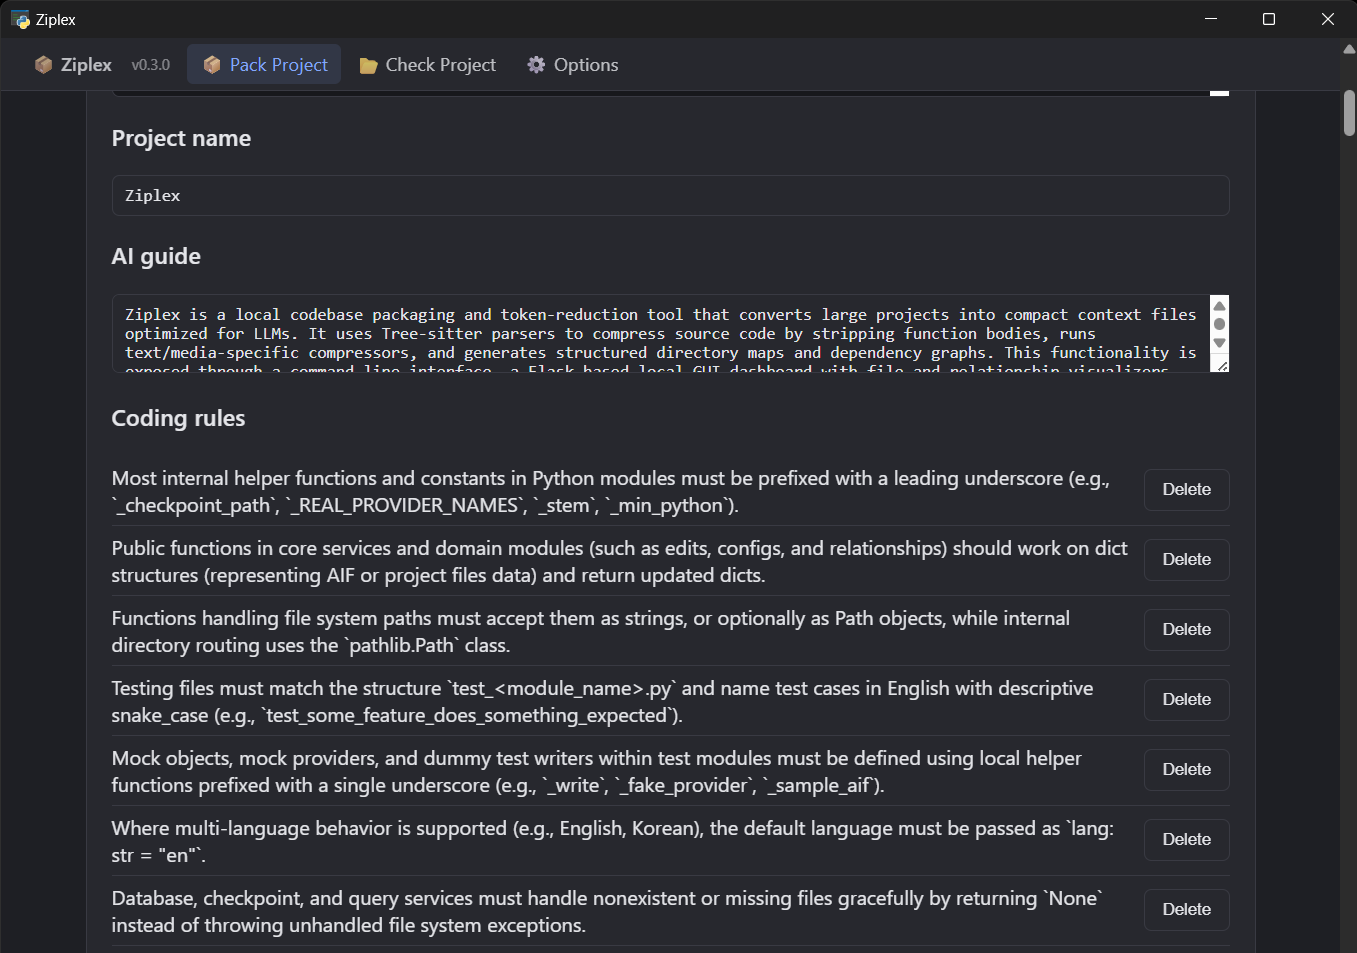
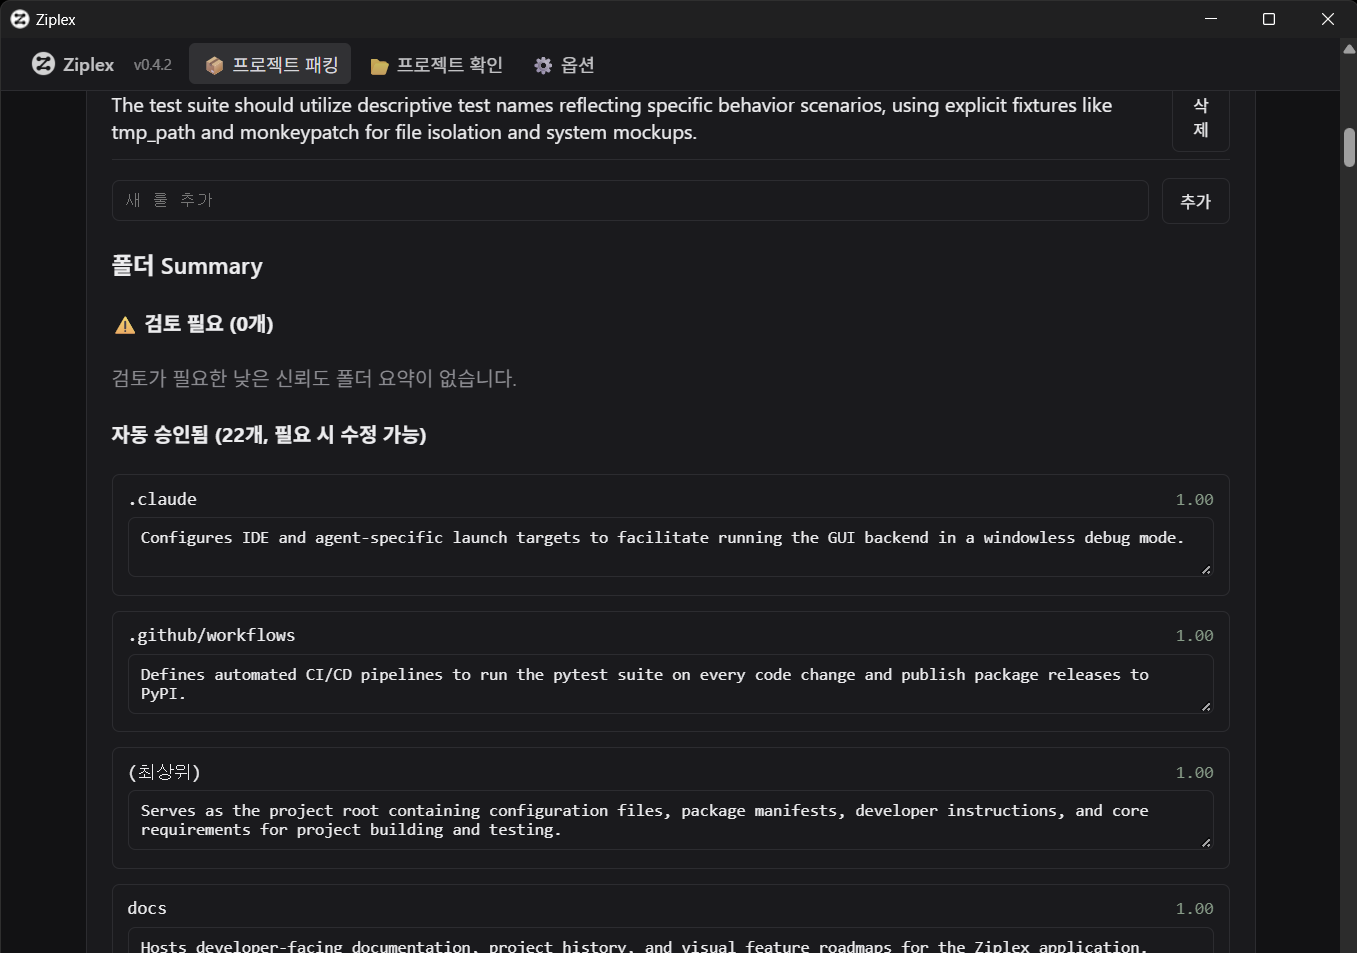
docs: refresh GUI screenshots and mention folder summaries
The 5 GUI screenshots in docs/images/ were from 2026-09-09 (pre-v0.4.2)
-- replaced with current ones (v0.4.2, showing the folder-summary
review UI that didn't exist yet in the old captures). Sourced from a
full ziplex-gui walkthrough the user captured packing Ziplex's own
repo.

README.md/README_ko.md's "Reviewing before anything is saved" caption
and alt text now mention folder summaries alongside per-file ones,
matching what the new gui-pack-review.png actually shows.

Claude-Session: https://claude.ai/code/session_01MhVNvbFc3vK4H45b55A4aA

diff --git a/README_ko.md b/README_ko.md
@@ -242,9 +242,9 @@ ziplex-gui --no-window                                # 창 대신 일반 브라
 
 ### 저장 전 검토
 
-![패킹: 프로젝트 가이드/룰/파일별 요약 검토 화면](docs/images/gui-pack-review.png)
+![패킹: 프로젝트 가이드/룰/폴더·파일별 요약 검토 화면](docs/images/gui-pack-review.png)
 
-분석이 끝나면 저장 전에 검토 단계에서 멈춥니다 — 프로젝트 이름, 가이드, 룰, 파일별 요약을 고칠 수 있고(CLI와 같은 기준으로 신뢰도가 낮은 것만 검토 대상으로 표시됩니다).
+분석이 끝나면 저장 전에 검토 단계에서 멈춥니다 — 프로젝트 이름, 가이드, 룰, 폴더·파일별 요약을 고칠 수 있고(CLI와 같은 기준으로 신뢰도가 낮은 것만 검토 대상으로 표시됩니다).
 
 ### 의존성 그래프 & 관계 편집
 

diff --git a/README.md b/README.md
@@ -243,9 +243,9 @@ Pick a project folder with the native folder picker, check off which files to in
 
 ### Reviewing before anything is saved
 
-![Pack: review project guide, rules, and per-file summaries](docs/images/gui-pack-review.png)
+![Pack: review project guide, rules, and folder/per-file summaries](docs/images/gui-pack-review.png)
 
-Analysis pauses for review before anything is saved: edit the project name, guide, rules, and per-file summaries (only the low-confidence ones are flagged, same triage the CLI uses).
+Analysis pauses for review before anything is saved: edit the project name, guide, rules, and folder/per-file summaries (only the low-confidence ones are flagged, same triage the CLI uses).
 
 ### Dependency graph & relationship editing
 

diff --git a/docs/images/README.md b/docs/images/README.md
@@ -5,7 +5,7 @@ Drop screenshots here with these exact filenames and both `README.md`/`README_ko
 | Filename | Screen |
 |---|---|
 | `gui-pack-select.png` | Pack: project folder picked, files checked off for inclusion |
-| `gui-pack-review.png` | Pack: post-analysis review (project guide/rules/per-file summaries) |
+| `gui-pack-review.png` | Pack: post-analysis review (project guide/rules/folder+per-file summaries) |
 | `gui-relationships.png` | Dependency tree overview or the per-file relationship editor |
 | `gui-overview.png` | An already-packed project's Overview page |
 | `gui-options.png` | The Options page |
